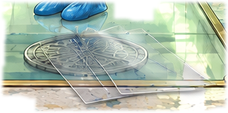
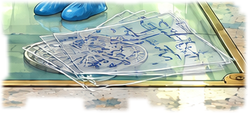
W4: плёнки с видимым синим чертежом (замечание автора); статус — решение по трафарету и открытый вопрос о кнопке
Claude-Session: https://claude.ai/code/session_01RCXBsVTo4kB8n1RghkLeRt

diff --git a/PROJECT_STATUS_HYDROUDAR.md b/PROJECT_STATUS_HYDROUDAR.md
@@ -9,7 +9,7 @@
 - **Ветка и файлы (07.10.2026, вторая сессия).** PR #7 влит в ветку по умолчанию `claude/tender-hawking-o34vdn`; работа этой сессии — ветка `claude/compassionate-hopper-v367hd` (черновой PR в `claude/tender-hawking-o34vdn`). Если в статусе ветки по умолчанию нет этого абзаца — `git fetch origin claude/compassionate-hopper-v367hd` и читать статус оттуда. Папки `work/higgsfield/staging/` и `raw/` в git не попадают; кандидаты — `work/higgsfield/candidates/`, принятые базы — `assets/`, **принятые кадры-варианты состояний (полный кадр до вырезки) — `work/higgsfield/variants/`**; любую генерацию можно скачать заново по job_id из `work/higgsfield/log.jsonl`.
 - **Сделано 07.10.2026 (вторая сессия), всё принято автором:** `room_w6.png` (уступ без стола и валуна, стул посетителя); `room_w5.png` — с вывеской «Пріёмный пунктъ» и матовой латунной табличкой «Контора старшаго по водѣ» на двери конторы (прежние версии — `work/orig_gfx/`); `room_w5_under.png` (вариант Б: крупная ножка стола, колеи, рак-отшельник в латунной крышке); кадры-варианты `st_w5_kuh`, `st_w6_kuh`, `st_w6_kuh_aside`, `st_w5u_tentacles` (голые щупальца из-под цоколя и из-за угла стола), `st_w5u_reach` (руки не видно — тень и капли). Спека: §2.6 вывески, §2.8 без валуна, `st_w6_kuh` «у уступа», `st_w5u_*` по новой геометрии, **§5.3 — правило геометрии щупалец** (замечание автора: «щупальца появляются из ниоткуда» — каждое одной линией от тела, нарукавники только на руках, вне кадра — тенью). Инструмент вырезки `tools/assets/cutout.py` (маска по разнице с базой внутри `--box`, `--keep` — области из базы, подгонка цвета по кольцу; результат `assets/gfx/cutouts/` + `cutouts.json`, склейка-проверка `work/higgsfield/cutout_preview/`).
 - **СЛЕДУЮЩАЯ СЕССИЯ — начать отсюда:**
-  00. **Вечер 08.10.2026, третий круг W4.** Приняты автором: исправленная база `room_w4.png` («окрашено»; прежняя — `work/orig_gfx/room_w4__окращено.png`) и `st_w4_tube_photo` (вариант А) — в `assets/`. **Ждут приёмки:** лист `work/higgsfield/sheet_w4_states.png` (по шагам истории) и `sheet_w4_states_full.png`; кандидаты — `work/higgsfield/candidates/cutouts_w4/` (README). Замечания автора 08.10.2026 и что сделано: содержимое кабины видно сразу после снятия зеркала, полная кабина нарисована **от пустой** (та же кабина и рубильник); после выноса решётка **открыта и остаётся открытой**; рубильник — на задней стенке кабины, внутри; лестница — столб винтовой с шаром и поручень уходит вниз, проход свободен (колодцы с кольцом отклонены: кольцо перегораживало проход); плёнки лежат **на** стекле (угол свисает за раму); куча — те же вещи из кабины, нарисована на склейке «зеркало у стены + открытая кабина + открытая лестница». В спеке §1.2 — правила «история объекта» и «шов вырезки», строки §2.5 переписаны. **Стратегический вопрос автора (открыт):** трафарет «Перевозка людей запрещена» — «лифт понимает, есть ли в нём человек? кому кнопку нажимать?»; ответ и варианты — в разговоре 08.10.2026 (кнопки только на площадках — CS4, пуск снаружи; лифт ничего не «знает», запрет держится на законопослушности Лапидуса; предложено усилить физикой: кабина под одну тележку, стоя рядом с ней не поместиться). Ждёт решения автора; трафарет пока на месте. **Тележка:** `st_w4_trolley_*`, `st_w4_tt_*` — после утверждения эталона тележки. Референсы Higgsfield: база W4 `82ce5c63…` (до правки «окрашено», в вырезки эта зона не попадает), склейка для кучи `0ddad187…`.
+  00. **Вечер 08.10.2026, третий круг W4.** Приняты автором: исправленная база `room_w4.png` («окрашено»; прежняя — `work/orig_gfx/room_w4__окращено.png`) и `st_w4_tube_photo` (вариант А) — в `assets/`. **Ждут приёмки:** лист `work/higgsfield/sheet_w4_states.png` (по шагам истории) и `sheet_w4_states_full.png`; кандидаты — `work/higgsfield/candidates/cutouts_w4/` (README). Замечания автора 08.10.2026 и что сделано: содержимое кабины видно сразу после снятия зеркала, полная кабина нарисована **от пустой** (та же кабина и рубильник); после выноса решётка **открыта и остаётся открытой**; рубильник — на задней стенке кабины, внутри; лестница — столб винтовой с шаром и поручень уходит вниз, проход свободен (колодцы с кольцом отклонены: кольцо перегораживало проход); плёнки лежат **на** стекле (угол свисает за раму); куча — те же вещи из кабины, нарисована на склейке «зеркало у стены + открытая кабина + открытая лестница». В спеке §1.2 — правила «история объекта» и «шов вырезки», строки §2.5 переписаны. **Стратегический вопрос автора (открыт):** трафарет «Перевозка людей запрещена» — «лифт понимает, есть ли в нём человек? кому кнопку нажимать?»; ответ и варианты — в разговоре 08.10.2026 (кнопки только на площадках — CS4, пуск снаружи; лифт ничего не «знает», запрет держится на законопослушности Лапидуса; предложено усилить физикой: кабина под одну тележку, стоя рядом с ней не поместиться). Ждёт решения автора; трафарет пока на месте. **Тележка:** `st_w4_trolley_*`, `st_w4_tt_*` — после утверждения эталона тележки. Референсы Higgsfield: база W4 `82ce5c63…` (до правки «окрашено», в вырезки эта зона не попадает), склейка для кучи `0ddad187…`. **Четвёртый круг (08.10.2026):** плёнки были «полностью прозрачные, на них ничего нет» — новый кандидат с жирным синим чертежом (`st_w4_films4`, bee6c2a8…). Решение автора по трафарету: **оставить**, обыграть законопослушность Лапидуса шуткой («раз людям запрещено — спрячусь от греха подальше»); «не помещается рядом с тележкой» — отклонено как абсурд. **Открыт вопрос автора: как физически нажать «Вниз» сквозь решётку** — варианты в разговоре 08.10.2026 (решётка-блокировка: «Вниз» нажат снаружи, лифт трогается, когда решётку закрыли изнутри; или вантуз сквозь прутья); правка сдачи Акта III (CS20, P15), графа (C16) и текстов (`Z11.cabin.button`, `SEQ.ride`, `Z11.ride.standing`) — после выбора автора. Загадку рубильника автор «до конца не понял» — объяснение в разговоре; рубильник по графу необязателен (O03).
   0. **Точка на 08.10.2026 (конец сессии):** приняты `room_w1`, `room_w2`, `room_w2_under`, `room_w3`, `room_w4` (+ W5/W6 из пакета 3). Готов слой `st_w4_mirror` (зал в начале игры; наклейка рамы врезана шрифтом — `tools/assets/plaque_insert.py`). **Следующее — остальные состояния W4** по спеке §2.5: `st_w4_mirror_aside`, `st_w4_cabin_full`, `st_w4_cabin_empty`, `st_w4_design`, `st_w4_stairs_open`, `st_w4_trolley_hall` (тугая маска, см. спеку), `st_w4_trolley_stairs`, `st_w4_tt_*`, `st_w4_water_bottle` (этикетка «Историческая вода „Каскадъ“…»), `st_w4_films`, `st_w4_tube_photo`, `st_w4_plate`; затем Z01, Z04–Z12, состояния W2/W2u/W3. **Как работаем:** перед новым экраном — план и камера на утверждение (`tools/layout/`), после утверждения — запись в `docs/BJ3_GEOMETRY.md`; состояние = кадр-вариант от генератора (правка базы, job принятой базы как референс) → вырезка `tools/assets/cutout.py` поверх принятой базы; мелкий брак (надпись, предмет) — правка только участка и вклейка в чистый кадр (маска разницы); мелкие надписи, которые генератор не вытягивает (~8 px), — шрифтом и `plaque_insert.py`; каждый кадр перед показом — осмотр целиком и крупно, побуквенная сверка надписей; гэги в каждом кадре выбирает автор. Цепочка головоломок проверена (`review/PUZZLE_CHAIN_REVIEW.md`), правки внесены (граф Акта III, тексты II–III, флаги, GDD, спека).
   1. **Вырезка — сделано 07.10.2026** (автор: «пробная вырезка устраивает»): `assets/gfx/cutouts/` — `st_w5_kuh`, `st_w6_kuh`, `st_w6_kuh_aside`, `st_w5u_tentacles`, `st_w5u_reach` (RGBA, координаты — `cutouts.json`; склейки — `work/higgsfield/cutout_preview/`). Замечание: в `st_w5_kuh` вывеска «Пріёмный пунктъ» взята из варианта — она на 130 px левее, чем на базе (на базе её место закрыла причёска); состояние включается при смене вида (из-под юбки → в рост), скачок не виден. Манифест: md5 `BJ3_HANDOFF.md` обновлён по слову автора — `check_docs.py` без расхождений.
   1а. **Правило «экран должен радовать глаз» — DESIGN_BIBLE §9 (решение автора 07.10.2026):** отель — историческое здание трёх эпох, в каждом кадре видны слои 1908 / профилакторий / «фирменный бежевый» поверх (неаккуратно, из-под краски проступает старое); бежевый — мотив, не палитра кадра. Спека §1.3 поправлена (палитра «Бежевый комфорт» на весь отель отменена), md5 библии в манифесте обновлён. Следствия: W2 перерисовывается по правилу (компоновка — вариант d, откидная доска по прототипу, спека §2.2); **принятый W1 переделывается** (решение автора), гэги W1 сохраняются.

diff --git a/work/higgsfield/candidates/cutouts_w4/README.md b/work/higgsfield/candidates/cutouts_w4/README.md
@@ -23,7 +23,7 @@
 | st_w4_stairs_open | `st_w4_stairs_open13` (6026b89a…; столб с шаром, поручень уходит вниз) | `--box 598,258,818,572 --thresh 30 --open 3 --close 25 --align 6 --grow 8 --feather 3` |
 | st_w4_design | `st_w4_design7` (90191679…); БАЗА — склейка `room_w4 + st_w4_mirror_aside + st_w4_cabin_empty + st_w4_stairs_open` | `--box 560,330,700,600 --thresh 30 --open 3 --close 15 --align 6 --grow 8 --feather 3 --base-name room_w4.png` |
 | st_w4_water_bottle | `st_w4_water_bottle` (3a782e09…) | `--box 1125,430,1180,545 --thresh 14 --open 3 --close 9 --align 4 --grow 4 --feather 3` |
-| st_w4_films | `st_w4_films2` (fb3571e6…; плёнки на стекле, угол за рамой) | `--box 860,625,1070,720 --thresh 7 --open 1 --close 31 --align 4 --grow 6 --feather 3` |
+| st_w4_films | `st_w4_films4` (bee6c2a8…; на стекле, синий чертёж виден, угол за рамой) | `--box 860,625,1090,720 --thresh 7 --open 1 --close 31 --align 4 --grow 6 --feather 3` |
 | st_w4_plate | `st_w4_plate` (8be82651…) | `--box 985,280,1085,415 --open 3 --align 4 --grow 5 --feather 3` |
 
 Порядок слоёв в движке: зеркало у стены → кабина → лестница → куча «дизайна» (она ближе к камере и
@@ -42,3 +42,5 @@
 кабины нет — видна база с закрытой решёткой); рубильник — на задней стенке кабины; лестница — без кольца
 (пробы 6–9 с кольцом-ограждением отклонены: нижнее кольцо перегораживало проход; 10–11 вели наверх; 12 —
 прямая, не винтовая); плёнки — на стекле; куча — те же вещи из кабины.
+
+Редакция 4 (замечание автора: «листы полностью прозрачные, на них ничего нет»): плёнки — с жирным тёмно-синим чертежом.
